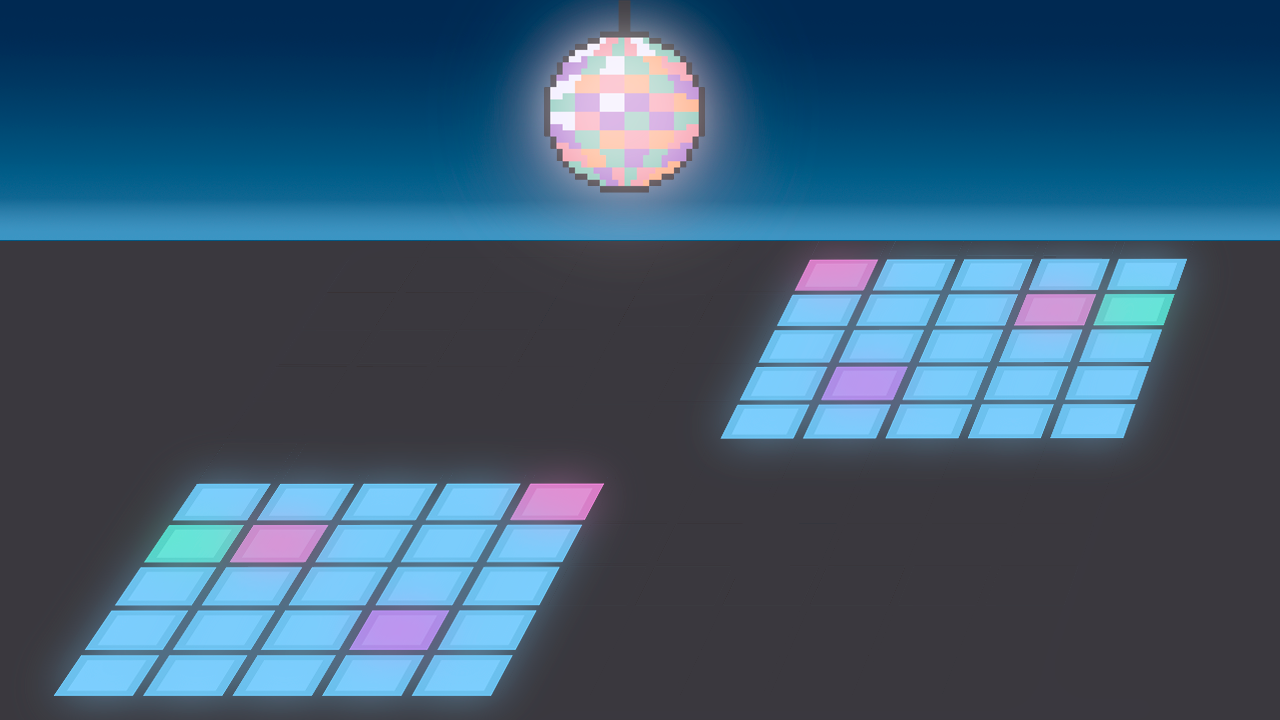
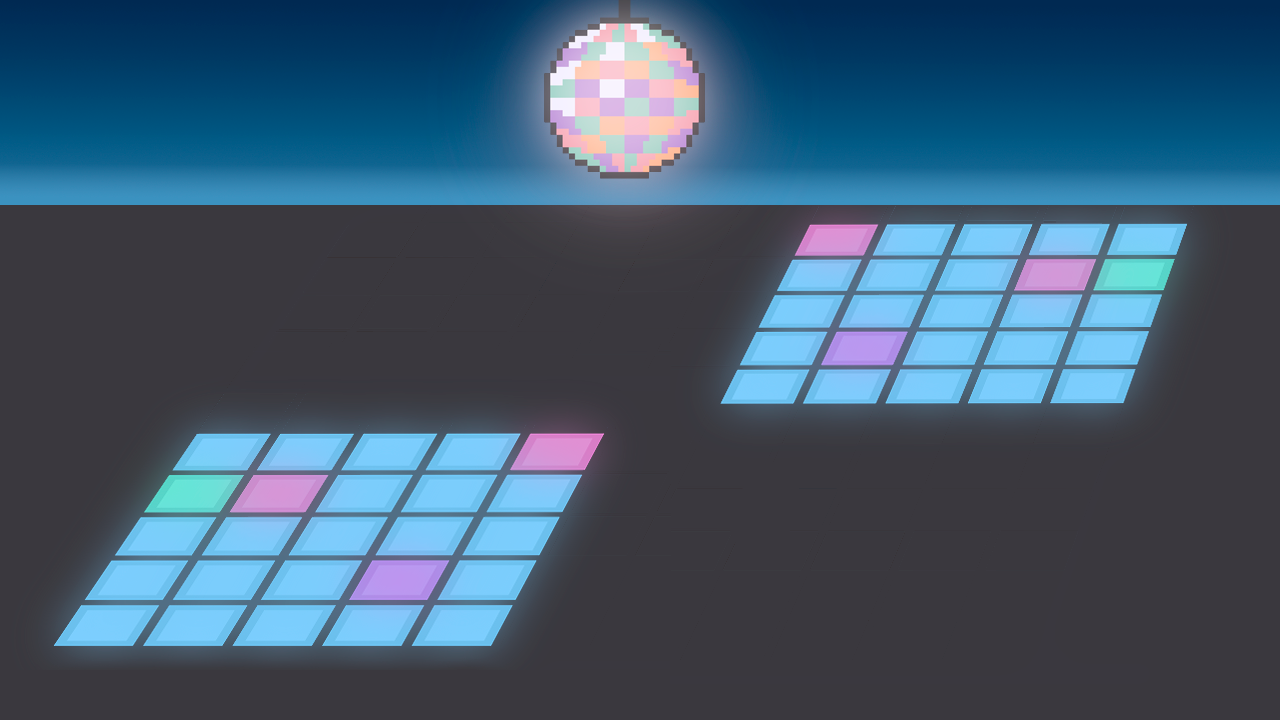
Players base added

Changed region(s): [[0.0, 0.0, 1.0, 0.6417], [0.0312, 0.5806, 0.4688, 1.0]]

diff --git a/public/DanceBattle/src/layers/GameLayer.js b/public/DanceBattle/src/layers/GameLayer.js
@@ -7,6 +7,7 @@ class GameLayer extends Layer {
 
   start() {
     this.board = [];
+    this.players = [];
     this.round = 3;
     this.isTurn = true;
 
@@ -20,32 +21,16 @@ class GameLayer extends Layer {
       originalCanvasWidth * 0.5,
       originalCanvasHeight * 0.5
     );
-    this.player1 = new Text(
-      0,
-      "#563F2E",
-      originalCanvasWidth * 0.07,
-      originalCanvasHeight * 0.47
-    );
-    this.player2 = new Text(
-      0,
-      "#563F2E",
-      originalCanvasWidth * 0.07,
-      originalCanvasHeight * 0.53
-    );
     this.status = new CenteredText(
       0,
       "#563F2E",
       originalCanvasWidth * 0.5,
       originalCanvasHeight * 0.1
     );
-    this.status.value = "";
-    this.wheel1 = new MovementsWheel(
-      originalCanvasWidth * 0.4,
-      originalCanvasHeight * 0.45
-    );
+
     this.wheel2 = new MovementsWheel(
-      originalCanvasWidth * 0.6,
-      originalCanvasHeight * 0.8
+      originalCanvasWidth * 0.45,
+      originalCanvasHeight * 0.475
     );
 
     this.movements = new Text(
@@ -54,6 +39,12 @@ class GameLayer extends Layer {
       originalCanvasWidth * 0.45,
       originalCanvasHeight * 0.95,
       30
+    );
+
+    this.right = new Background(
+      images.right,
+      originalCanvasWidth * 0.2,
+      originalCanvasHeight * 0.94
     );
   }
 
@@ -66,19 +57,21 @@ class GameLayer extends Layer {
   paint() {
     this.background.paint();
 
-    this.player1.paint();
-    this.player2.paint();
+    for (let player of this.players) {
+      player.paint();
+    }
+
     if (this.isTurn) {
       this.wheel2.paint();
-    } else {
-      this.wheel1.paint();
     }
+
     this.status.paint();
 
     if (this.isTurn) {
       this.turnIndicator.paint();
     }
     this.movements.paint();
+    this.right.paint();
   }
 
   calculateTaps(taps) {
@@ -101,6 +94,25 @@ class GameLayer extends Layer {
 
   initialize(state) {
     this.round = state.round;
+
+    let player = state.players.find(p => p.id == socketId);
+    let opponent = state.players.find(p => p.id != socketId);
+
+    this[player.role] = new Player(
+      originalCanvasWidth * 0.3,
+      originalCanvasHeight * 0.575,
+      player.playerName,
+      "back"
+    );
+    this.players.push(this[player.role]);
+
+    this[opponent.role] = new Player(
+      originalCanvasWidth * 0.75,
+      originalCanvasHeight * 0.3,
+      opponent.playerName,
+      "front"
+    );
+    this.players.push(this[opponent.role]);
   }
 
   processControls() {
@@ -179,18 +191,6 @@ class GameLayer extends Layer {
         break;
       default:
         break;
-    }
-
-    this.player1.value = "";
-    this.player2.value = "";
-    if (state.players.length > 0) {
-      this.player1.value =
-        state.players[0].symbol + ": " + state.players[0].playerName;
-    }
-
-    if (state.players.length > 1) {
-      this.player2.value =
-        state.players[1].symbol + ": " + state.players[1].playerName;
     }
   }
 

diff --git a/public/DanceBattle/src/models/Player.js b/public/DanceBattle/src/models/Player.js
@@ -1,0 +1,63 @@
+class Player extends Model {
+
+    constructor(x, y, name, position) {
+        super(images["player_"+position], x, y);
+        this.state = PlayerStatuses.IDLE;
+
+        // Animaciones
+        // this.idleAnim = new Animation(images.idle_player,
+        //     this.width, this.height, 6, 4);
+
+        // this.runningAnim = new Animation(images.running_player,
+        //     this.width, this.height, 3, 4);
+
+        // this.crouchingAnim = new Animation(images.crouching_player,
+        //     this.width, this.height, 3, 4);
+
+        // this.jumpingAnim = new Animation(images.jumping_player,
+        //     this.width, this.height, 3, 4);
+
+        // this.hitAnim = new Animation(images.hit_player,
+        //     this.width, this.height, 3, 4, this.endHitAnim.bind(this));
+
+        // this.animation = this.idleAnim;
+
+        this.tag = new CenteredText(
+            name,
+            "#FFFFFF",
+            x,
+            y-this.height/2 - 15
+          );
+
+
+    }
+
+    update() {
+        //this.animation.update();
+
+        /*switch (this.state) {
+            case PlayerStatuses.IDLE:
+                this.animation = this.idleAnim;
+                break;
+            case PlayerStatuses.MOVING:
+                this.animation = this.runningAnim;
+                break;
+            case PlayerStatuses.CROUCHED:
+                this.animation = this.crouchingAnim;
+                break;
+            case PlayerStatuses.HIT:
+                this.animation = this.hitAnim;
+                break;
+            case PlayerStatuses.JUMPING:
+                this.animation = this.jumpingAnim;
+                break;
+        }
+        */
+    }
+
+    paint() {
+        super.paint();
+        //this.animation.paint(this.x, this.y);
+        this.tag.paint();
+    }
+}

diff --git a/public/DanceBattle/src/Res.js b/public/DanceBattle/src/Res.js
@@ -6,8 +6,10 @@ var images = {
     wheel_u : "res/wheel_u.png",
     wheel_r : "res/wheel_r.png",
     wheel_m : "res/wheel_m.png",
+    player_back: "res/player_back.png",
+    player_front: "res/player_front.png",
     background : "res/background.png",
-    X : "res/X.png",
+    right : "res/right.png",
     O : "res/O.png",
     turnIndicator: "res/turn_indicator.png"
 };

diff --git a/public/DanceBattle/index.html b/public/DanceBattle/index.html
@@ -20,6 +20,7 @@
 
     <script src="../common/src/Global.js"></script>
     <script src="../common/src/models/Model.js"></script>
+    <script src="src/models/Player.js"></script>
     <script src="src/models/MovementsWheel.js"></script>
     <script src="../common/src/models/Text.js"></script>
     <script src="../common/src/models/CenteredText.js"></script>

diff --git a/server/games/DanceBattle.js b/server/games/DanceBattle.js
@@ -43,7 +43,7 @@ class DanceBattle extends BaseGame {
       (player) => player.role == Roles.IMITATED
     );
     room.state.result.status = Statuses.PLAYING;
-
+    this.updateGameState(room, "gameStart");
     this.startTurnTimer(room, 10);
   }
 
